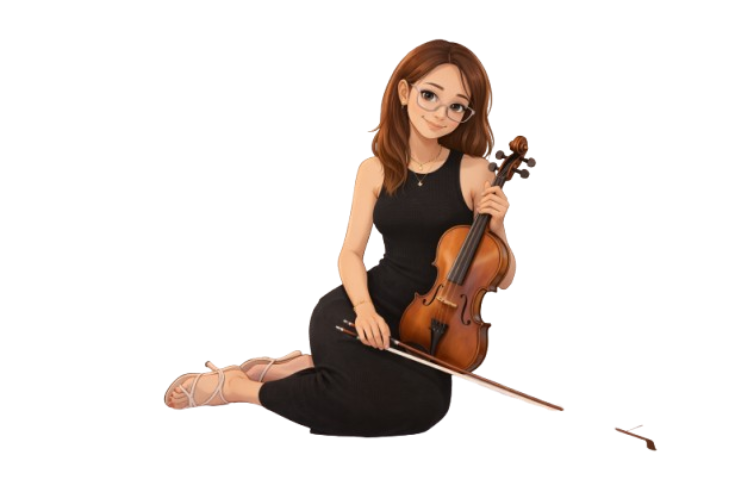
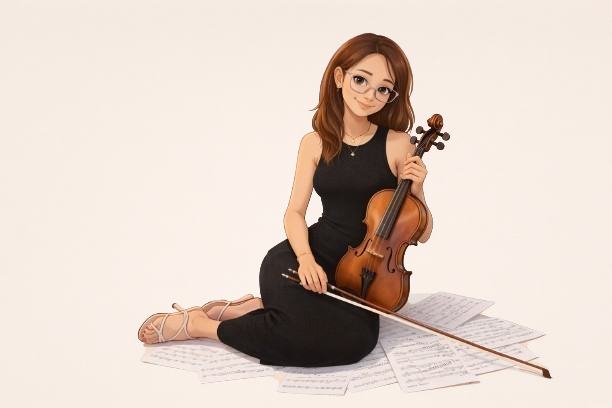
updated bottom photo and remove hover

diff --git a/css/styles.css b/css/styles.css
@@ -122,35 +122,13 @@ img { max-width: 100%; display: block; }
     transform: translateY(30%);
     transition: transform 0.45s cubic-bezier(0.34, 1.4, 0.64, 1);
 }
-.corner-figure:hover {
-    transform: translateY(0%);
-}
+
+
 .corner-figure img {
     height: 180px;
     width: auto;
     display: block;
     filter: drop-shadow(0 8px 16px rgba(0,0,0,0.2));
-}
-.corner-figure__tooltip {
-    background: rgba(253,248,238,0.92);
-    backdrop-filter: blur(8px);
-    border: 1.5px solid #c8a060;
-    border-radius: 12px 12px 12px 4px;
-    padding: 0.4rem 0.8rem;
-    font-family: var(--font-handwritten);
-    font-size: 0.85rem;
-    color: #5a3a10;
-    white-space: nowrap;
-    margin-bottom: 6px;
-    box-shadow: 0 4px 12px rgba(100,60,10,0.12);
-    opacity: 0;
-    transform: translateY(6px);
-    transition: opacity 0.3s ease, transform 0.3s ease;
-    pointer-events: none;
-}
-.corner-figure:hover .corner-figure__tooltip {
-    opacity: 1;
-    transform: translateY(0);
 }
 
 .nav__links {

diff --git a/index.html b/index.html
@@ -35,7 +35,6 @@
 
     <!-- ======================== VIOLIN CORNER FIGURE ======================== -->
     <div class="corner-figure" id="cornerFigure">
-        <div class="corner-figure__tooltip">that's me! 🎻</div>
         <img src="assets/violin_me.png" alt="Kalea playing violin">
     </div>
     <section class="hero" id="hero">
